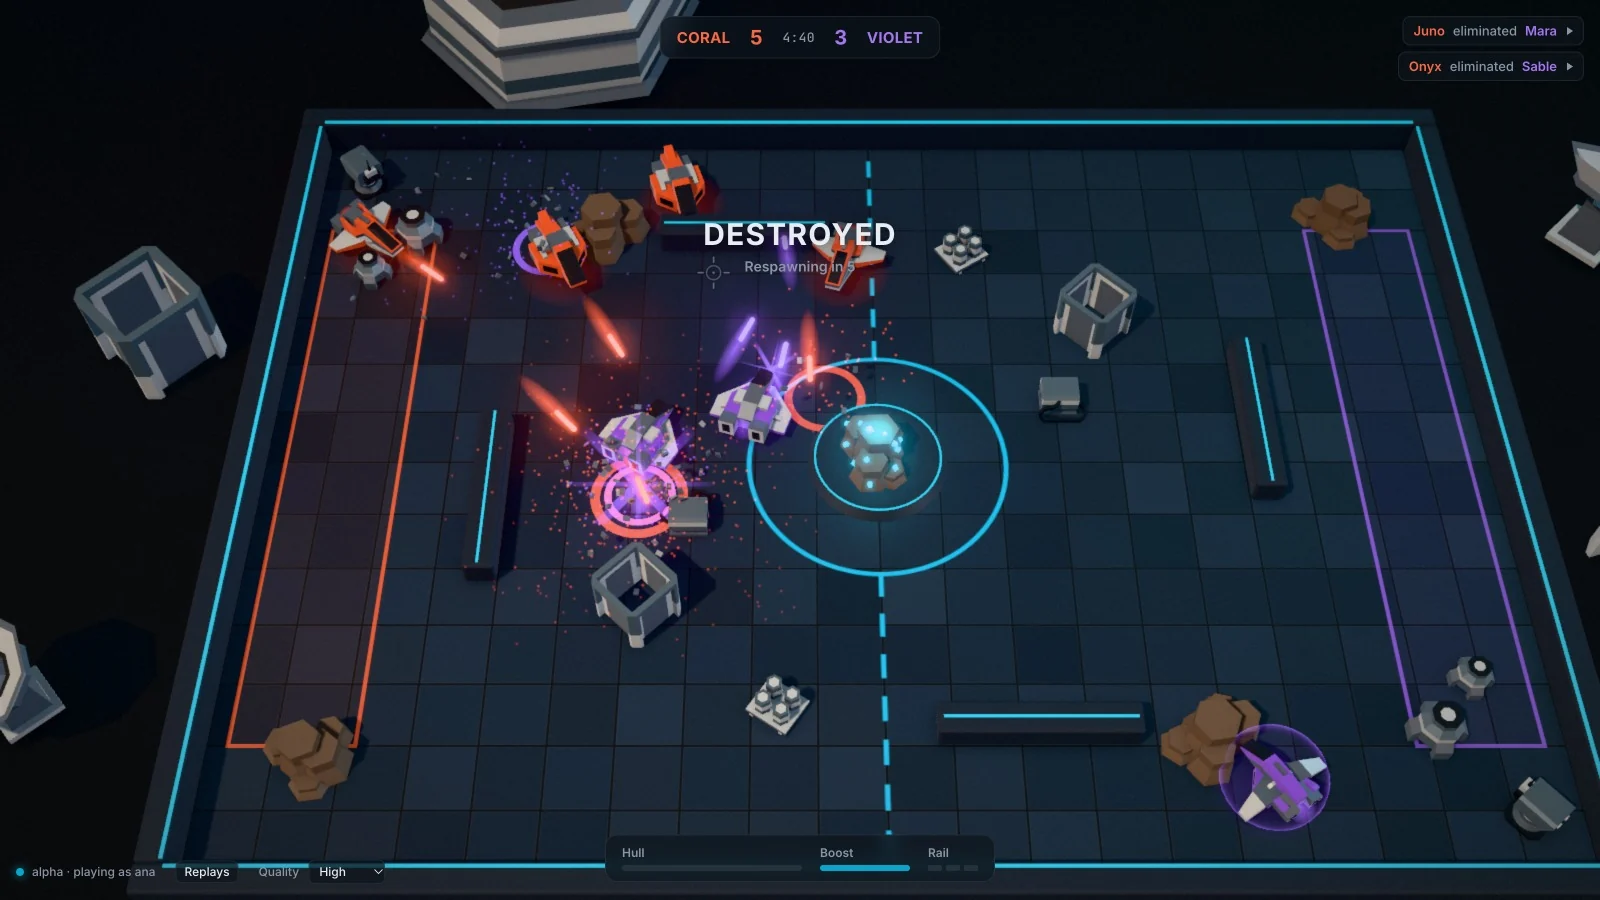
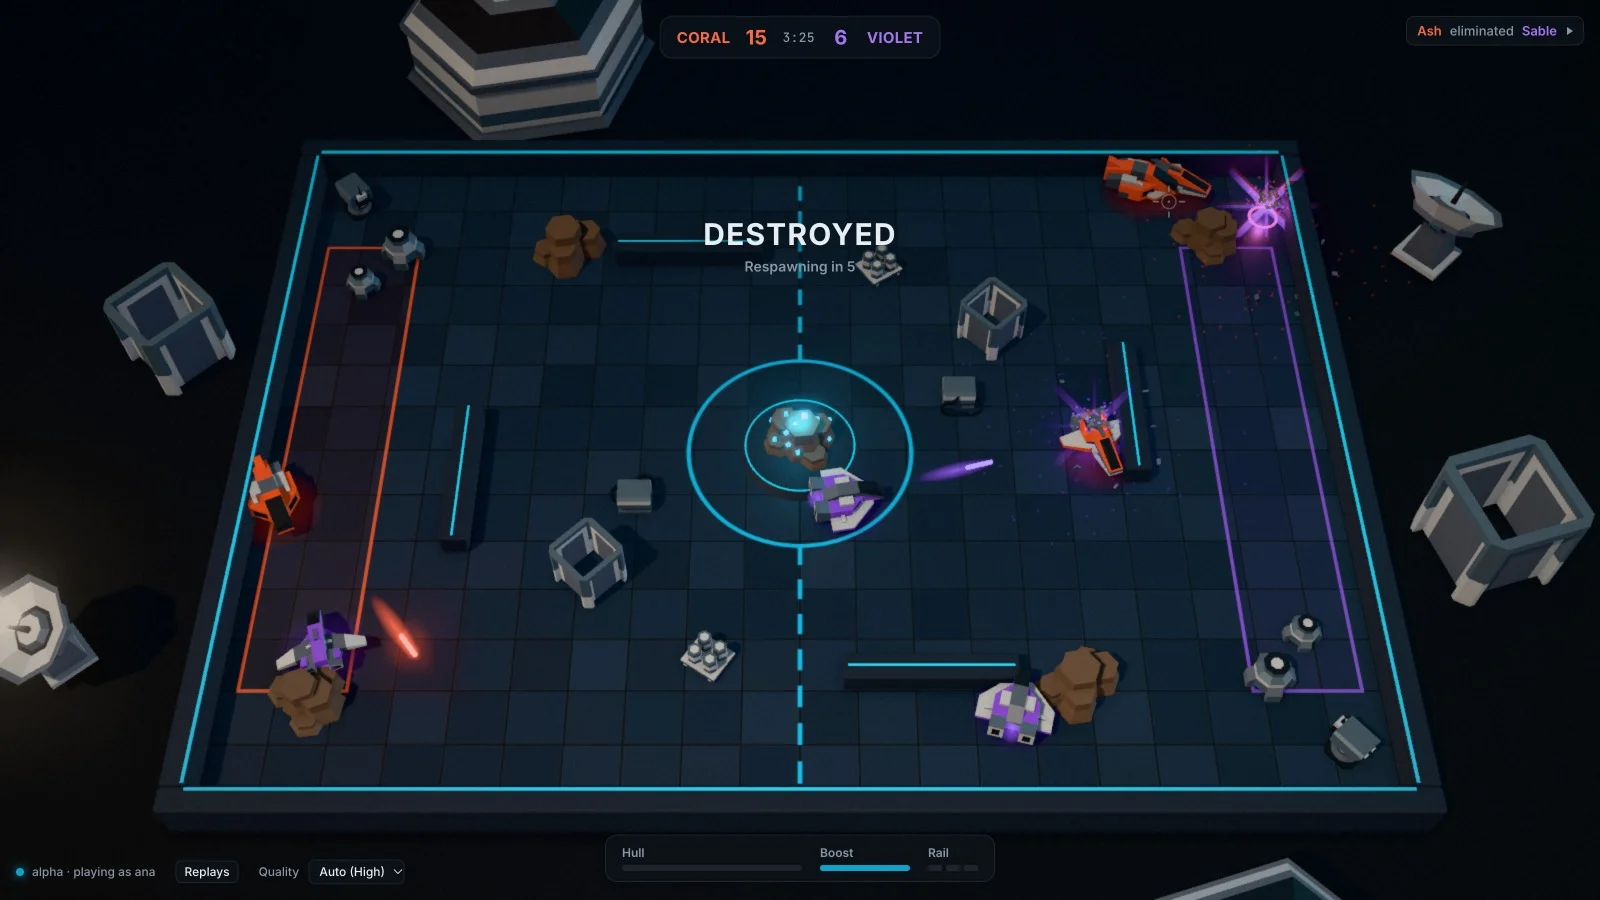
docs-site: new felix-arena stills with the kill cam's explosion ending

diff --git a/docs-site/src/content/docs/built-on-felix/arena.md b/docs-site/src/content/docs/built-on-felix/arena.md
@@ -18,7 +18,7 @@ not built yet; the development stack runs one broker with a stand-in identity
 provider. The sections below describe the full design and say which parts run
 today.
 
-![A felix-arena match: Coral and Violet hover-craft trading fire around the crystal at the centre of the arena, with the score, the kill feed and the hull and boost bars](/built-on-felix/arena-match.webp?v=1)
+![A felix-arena match: Coral and Violet hover-craft trading fire around the crystal at the centre of the arena, with the score, the kill feed and the hull and boost bars](/built-on-felix/arena-match.webp?v=2)
 
 ## How it uses Felix
 
@@ -56,9 +56,9 @@ in-memory replay ring, so a kill cam does not read from disk. Any kill in the
 feed can be replayed the same way, from this match or an earlier one, until
 retention trims the records.
 
-![The moment of a kill: the player's craft is destroyed and waits to respawn while the fight goes on](/built-on-felix/arena-kill.webp?v=1)
+![The moment of a kill: the player's craft is destroyed and waits to respawn while the fight goes on](/built-on-felix/arena-kill.webp?v=2)
 
-![The kill cam replaying that kill at half speed from the match's log, with the killer and the victim named and keys to switch between the victim's view, the killer's and an orbit](/built-on-felix/arena-killcam.webp?v=1)
+![The kill cam replaying that kill from the match's log at the moment the victim explodes, with the killer and the victim named and keys to switch between the victim's view, the killer's and an orbit](/built-on-felix/arena-killcam.webp?v=2)
 
 Inputs go on an in-memory stream because an input 40 ms old is worthless and
 the next one replaces it. Each input repeats the previous two, so a dropped
